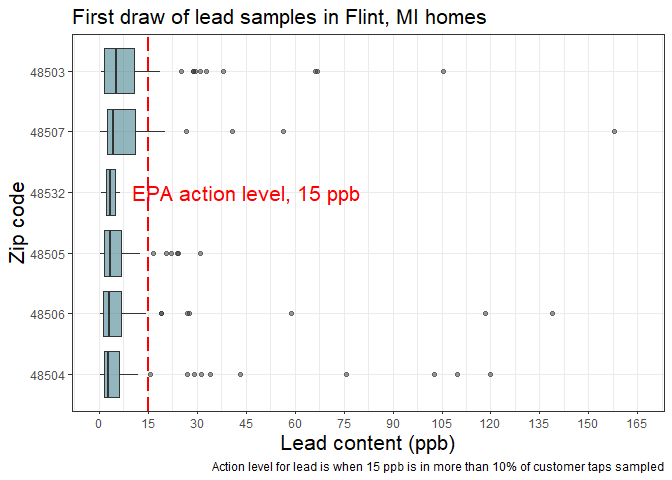
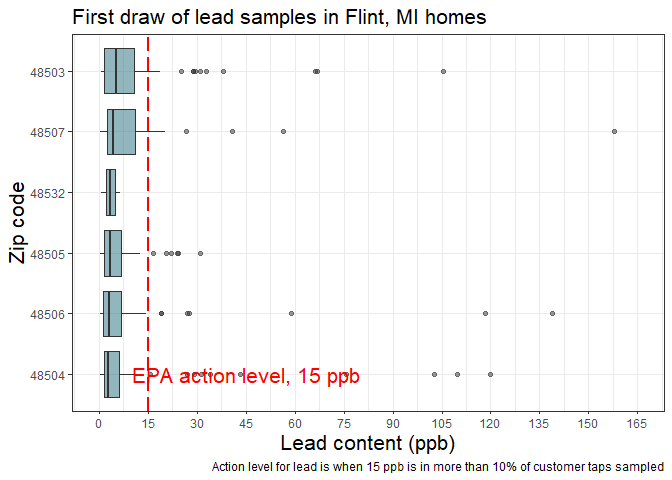
Modify the annotation

Changed region(s): [[0.1875, 0.375, 0.5312, 0.4375], [0.1875, 0.75, 0.5312, 0.8125]]

diff --git a/Week3-b.html b/Week3-b.html
@@ -401,12 +401,12 @@ ggplot(flint2) +
     limits = c(0,165),
     breaks = seq(0, 165, 15)
   ) +
-  annotate(&quot;text&quot;, x = 45, y = &quot;48532&quot;, label = &quot;EPA action level, 15 ppb&quot;, size = 16/.pt, color = &quot;red&quot;) + 
+  annotate(&quot;text&quot;, x = 45, y = &quot;48504&quot;, label = &quot;EPA action level, 15 ppb&quot;, size = 16/.pt, color = &quot;red&quot;) + 
   theme_bw() + 
   theme(plot.title = element_text(size = 16),
         axis.title.x = element_text(size = 16),
         axis.title.y = element_text(size = 16))</code></pre>
[2 lines of base64/hex data omitted]
 
 
 

diff --git a/Week3-b.md b/Week3-b.md
@@ -50,7 +50,7 @@ ggplot(flint2) +
     limits = c(0,165),
     breaks = seq(0, 165, 15)
   ) +
-  annotate("text", x = 45, y = "48532", label = "EPA action level, 15 ppb", size = 16/.pt, color = "red") + 
+  annotate("text", x = 45, y = "48504", label = "EPA action level, 15 ppb", size = 16/.pt, color = "red") + 
   theme_bw() + 
   theme(plot.title = element_text(size = 16),
         axis.title.x = element_text(size = 16),
